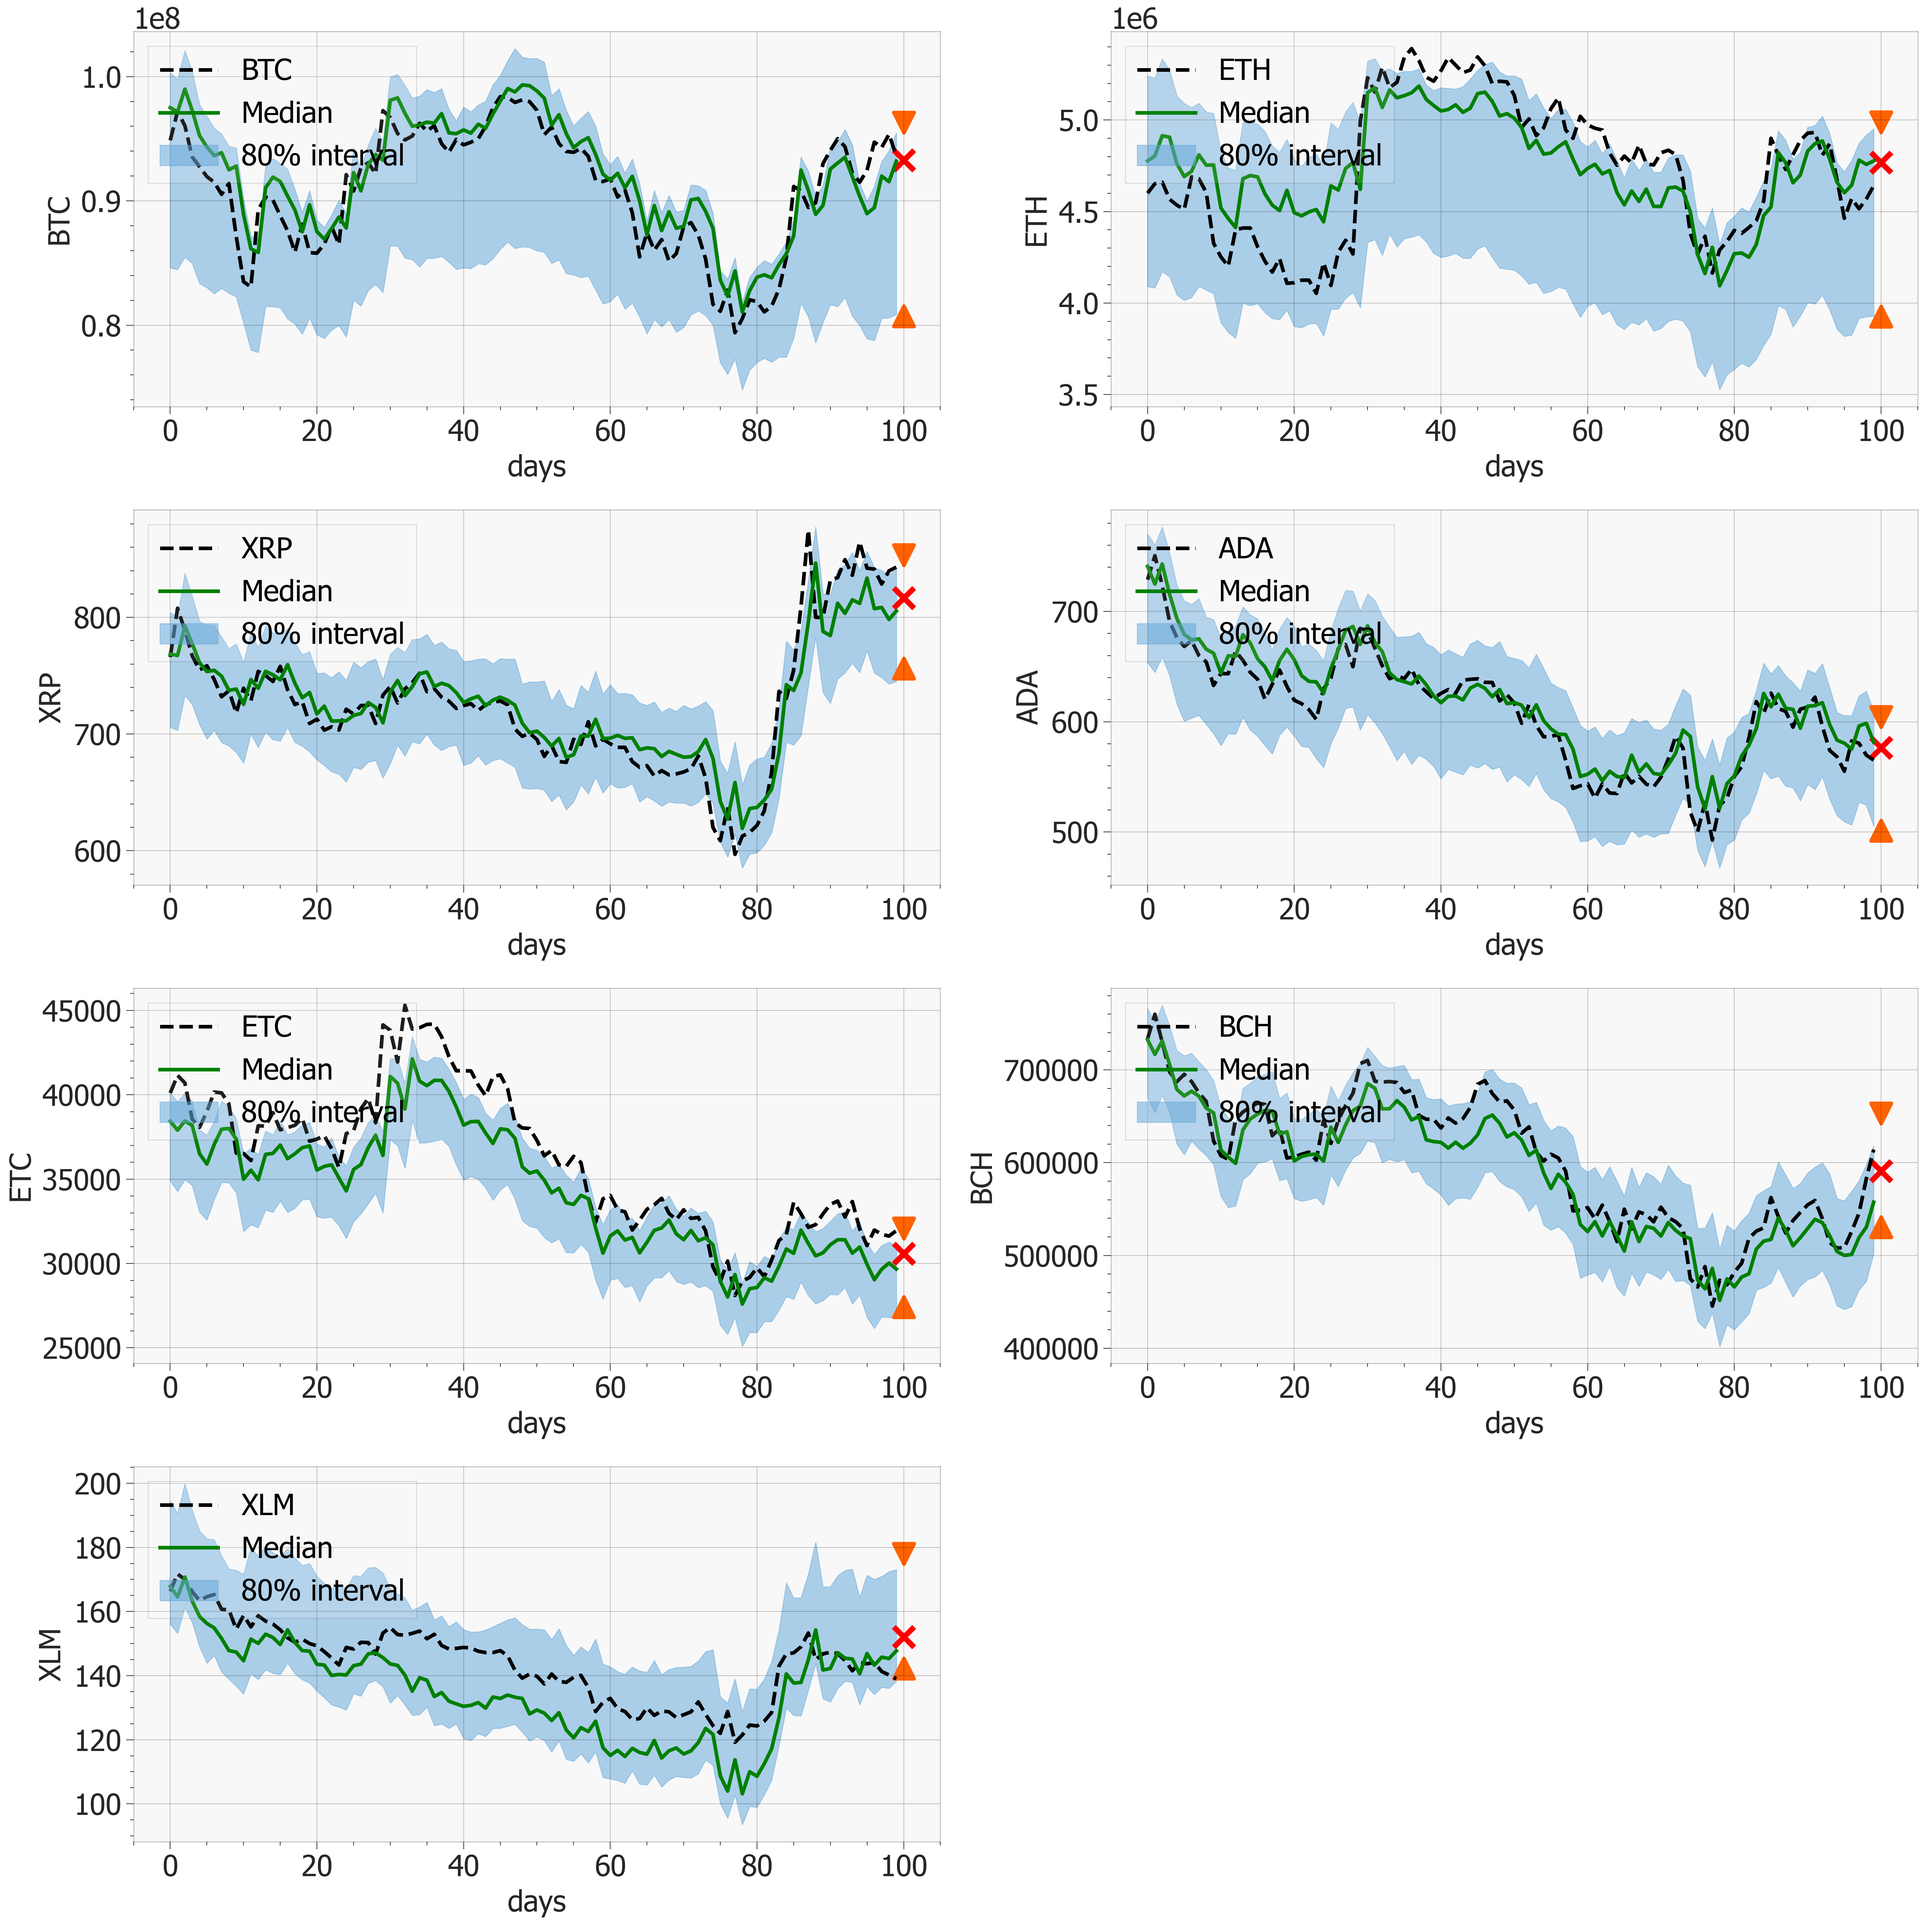
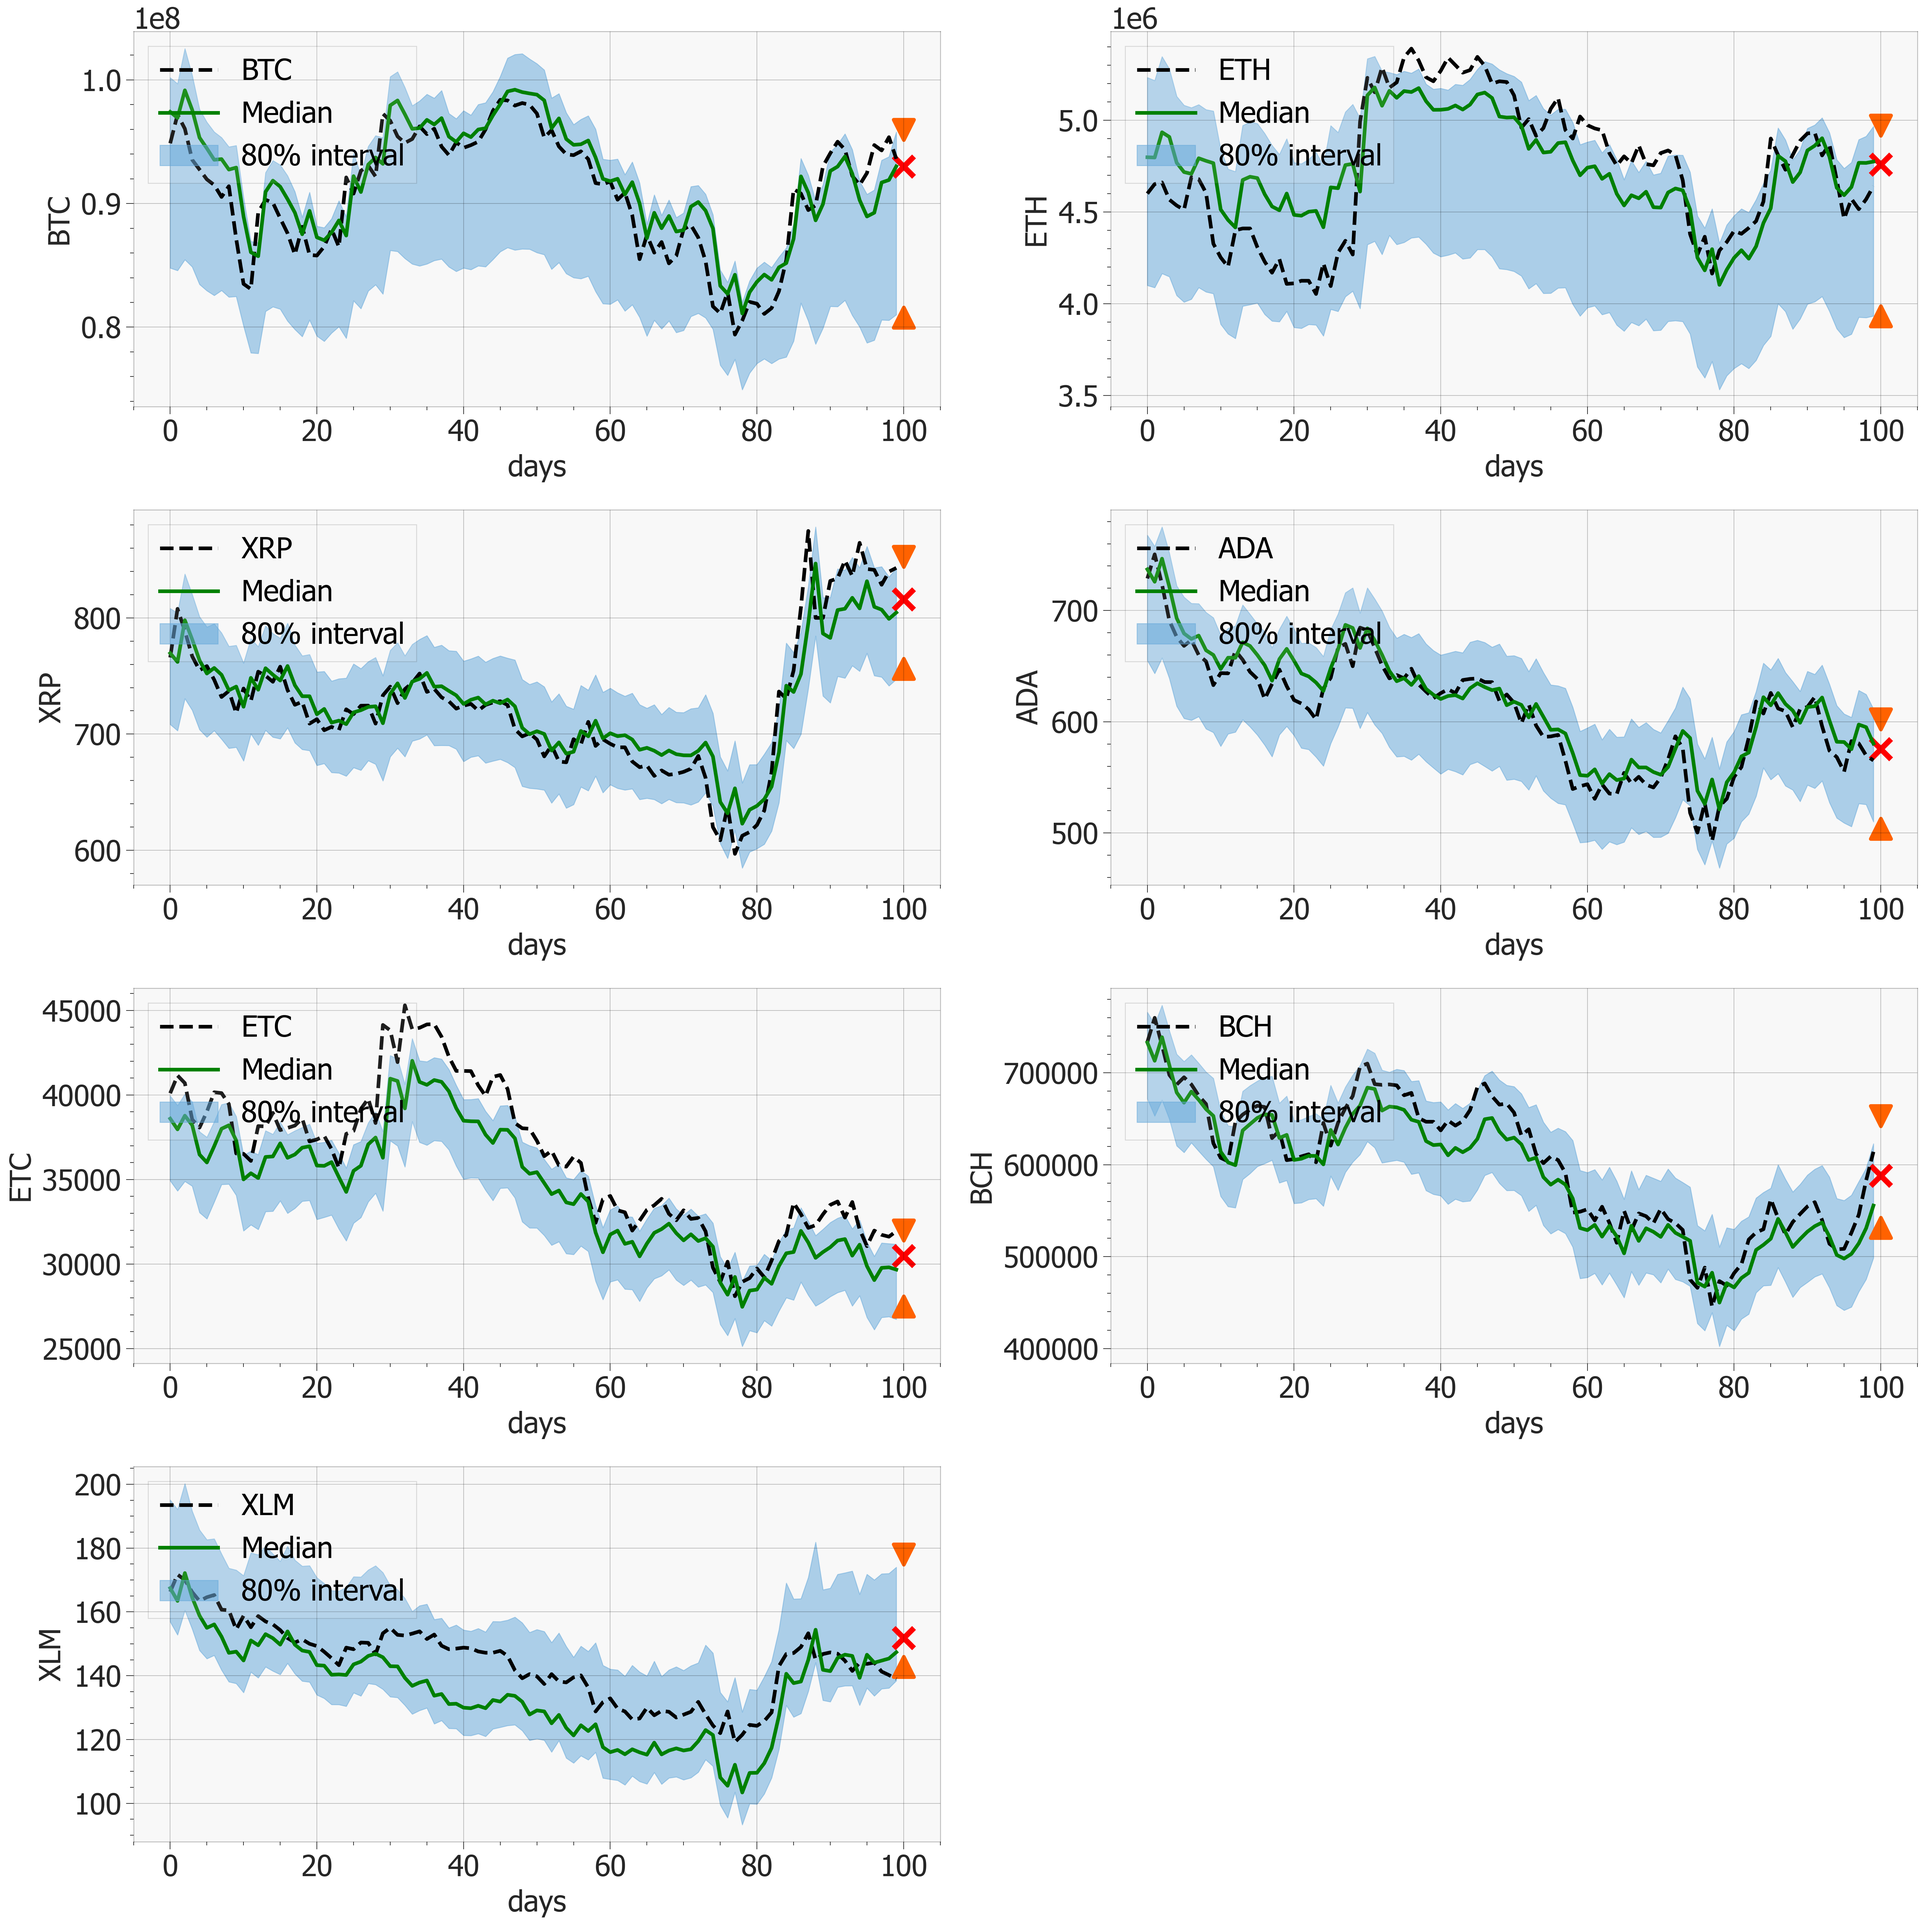
minor updates on streamlit.py

diff --git a/main.py b/main.py
@@ -50,7 +50,7 @@ def get_args(debug):
     parser.add_argument("--test_len", default=200, type=int,
                         help="length of test dataset")
     
-    parser.add_argument("--MC", default=100, type=int,
+    parser.add_argument("--MC", default=500, type=int,
                         help="the number of samples in Monte Carlo sampling")
     parser.add_argument('--epochs', default=400, type=int,
                         help='the number of epochs')
@@ -73,7 +73,7 @@ def get_args(debug):
 #%%
 def main():
     #%%
-    config = vars(get_args(debug=False)) # default configuration
+    config = vars(get_args(debug=True)) # default configuration
     
     """load config"""
     config_path = f'./configs/{config["model"]}.yaml'

diff --git a/streamlit.py b/streamlit.py
@@ -14,6 +14,7 @@ def main():
     #### Settings
     - 7 cryptocurrencies: `BTC`, `ETH`, `XRP`, `ADA`, `ETC`, `BCH`, `XLM`
     - Train dataset window: {data.index[0]} ~ {data.index[-1]}
+    - Our daily forecasting is based on the past 20 days.
     - This result is based on the official implementation of 'Cryptocurrency Price Forecasting using Variational AutoEncoder with Versatile Quantile Modeling' (CIKM, 2024).
         - We forecast 10%, 50%, 90% quantiles (interval estimation).
     """)

diff --git a/modules/utils.py b/modules/utils.py
@@ -1,14 +1,11 @@
 #%%
-import pandas as pd
 import numpy as np
 import random
 import torch
 import yaml
 import matplotlib.pyplot as plt
-import seaborn as sns
 from ing_theme_matplotlib import mpl_style # pip install ing_theme_matplotlib 
 import matplotlib as mpl
-import tqdm
 #%%
 """for reproducibility"""
 def set_random_seed(seed):
